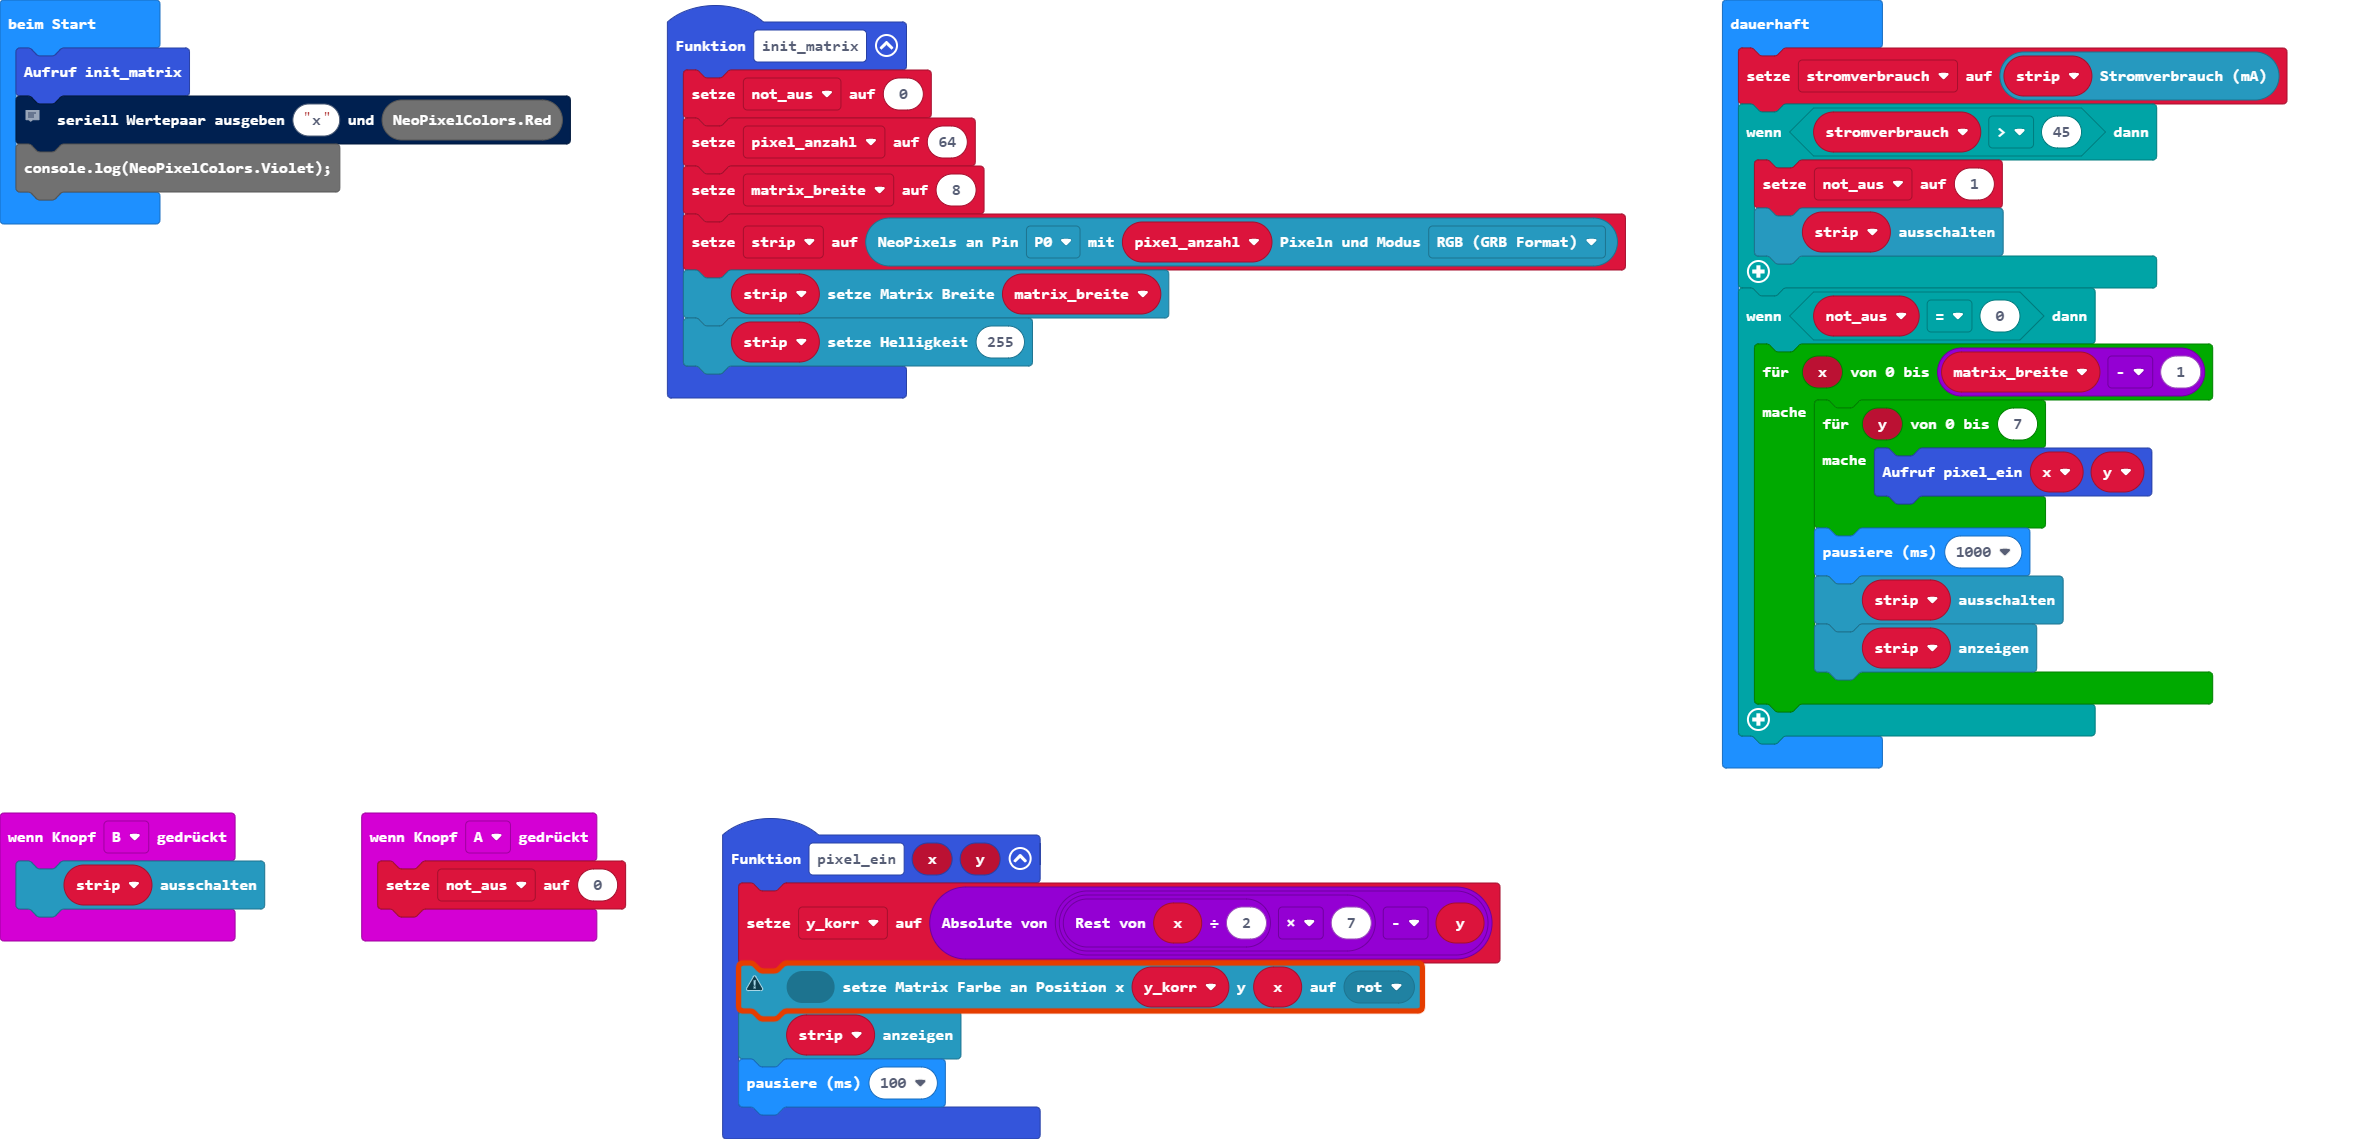
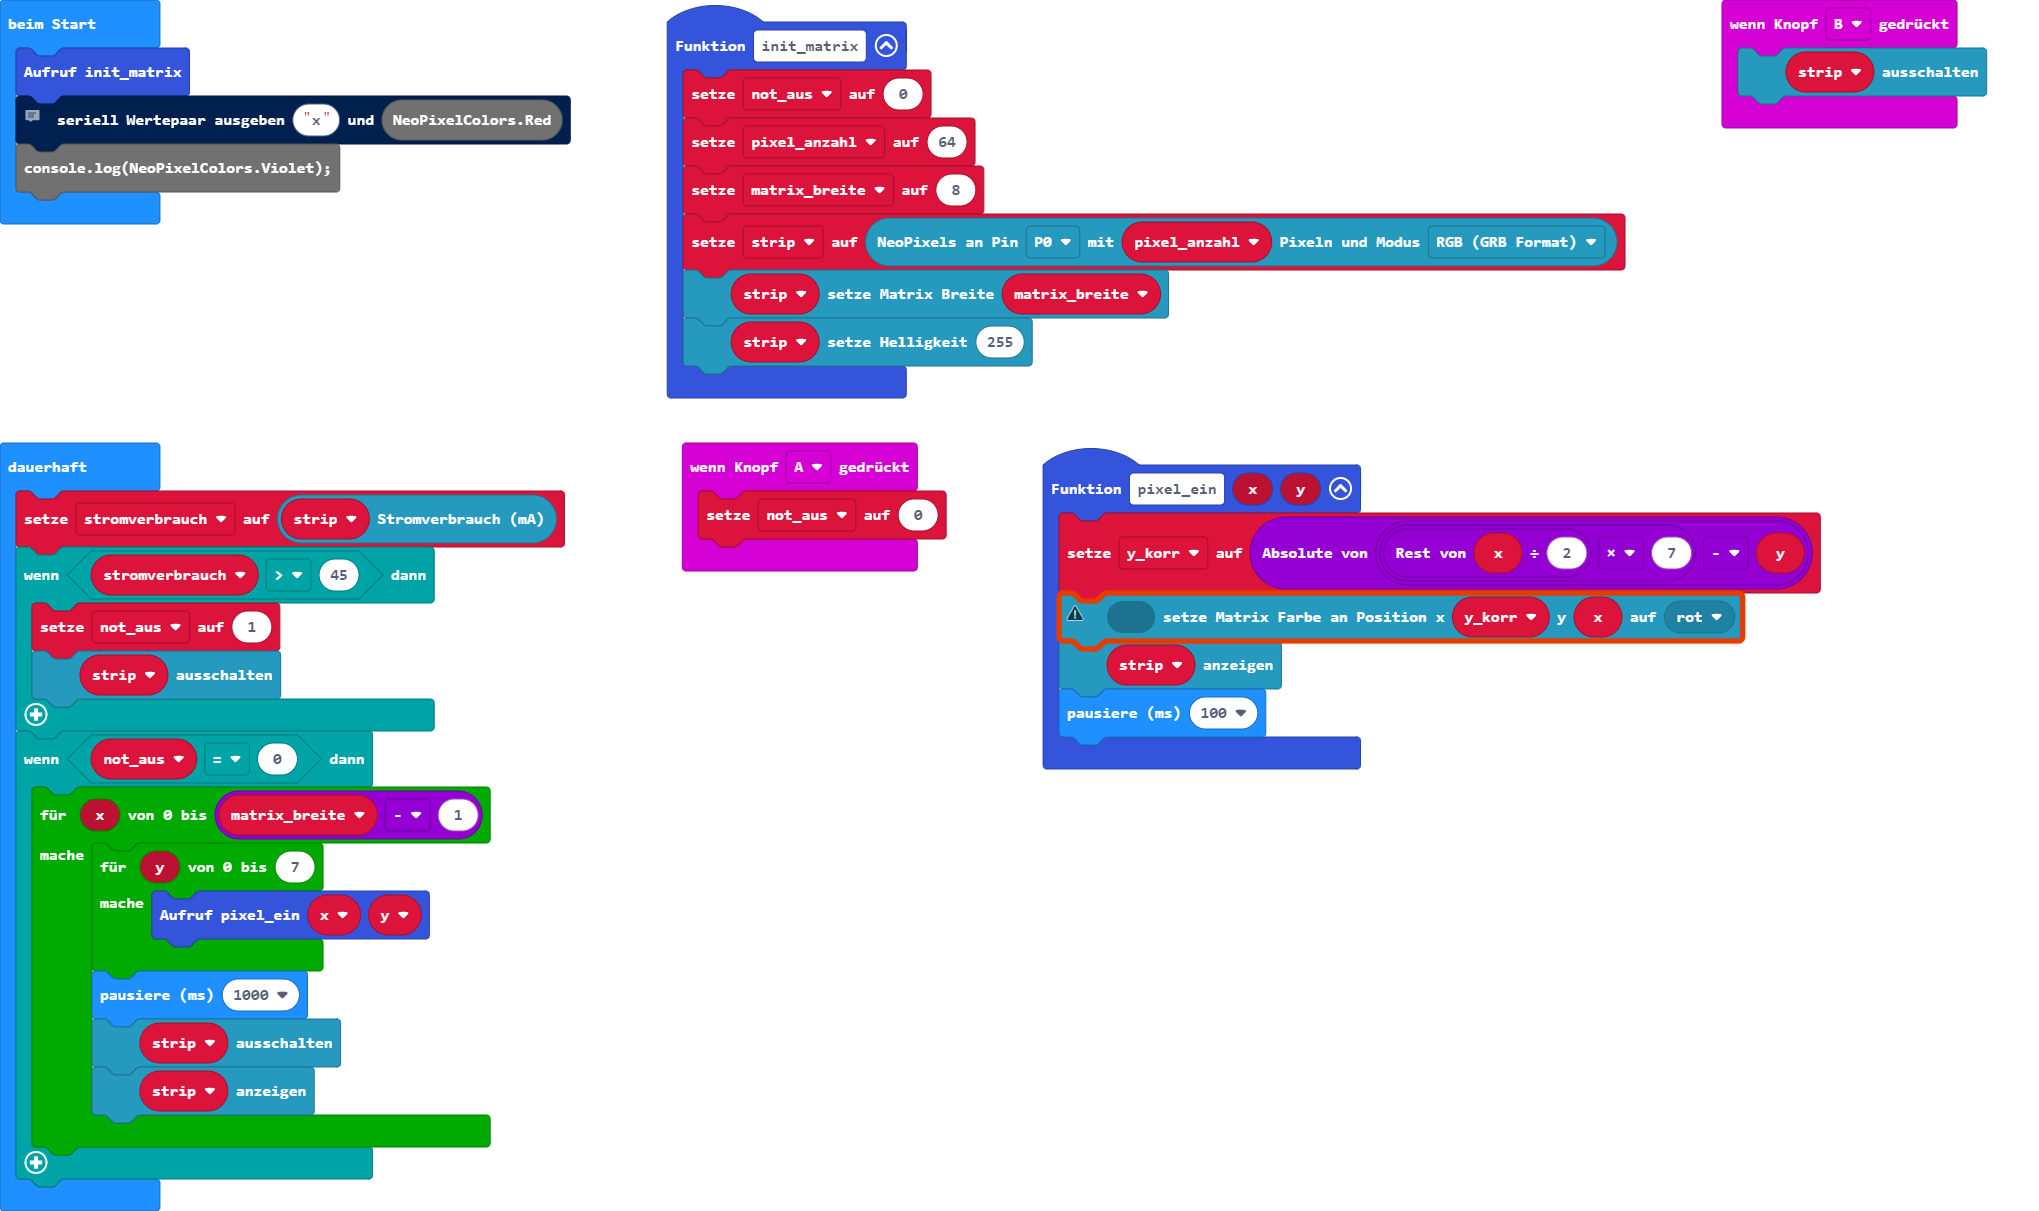
Aktualisiere pxt.json, main.blocks, main.ts, _locales/de/README.md

diff --git a/main.ts b/main.ts
@@ -4,17 +4,21 @@ function init_matrix () {
     matrix_breite = 8
     strip = neopixel.create(DigitalPin.P0, pixel_anzahl, NeoPixelMode.RGB)
     strip.setMatrixWidth(matrix_breite)
-    strip.setBrightness(255)
+    strip.setBrightness(50)
 }
 input.onButtonPressed(Button.A, function () {
     not_aus = 0
 })
+
+
 function pixel_ein (x: number, y: number) {
     y_korr = Math.abs(x % 2 * 7 - y)
-    strip.setMatrixColor(y_korr, x, neopixel.colors(NeoPixelColors.Red))
+    strip.setMatrixColor(y_korr, x, neopixel.colors(NeoPixelColors.Green))
     strip.show()
     basic.pause(100)
 }
+
+
 input.onButtonPressed(Button.B, function () {
     strip.clear()
 })
@@ -35,13 +39,14 @@ basic.forever(function () {
         strip.clear()
     }
     if (not_aus == 0) {
-        for (let x = 0; x <= matrix_breite - 1; x++) {
-            for (let y = 0; y <= 7; y++) {
+        for (let y = 0; y <= 7; y++) {
+            for (let x = 0; x <= matrix_breite - 1; x++) {
                 pixel_ein(x, y)
             }
-            basic.pause(1000)
-            strip.clear()
-            strip.show()
         }
+        basic.pause(10000)
+        strip.clear()
+        strip.show()
+        
     }
 })

diff --git a/_locales/de/README.md b/_locales/de/README.md
@@ -1,0 +1,31 @@
+
+> Diese Seite bei [https://baa-mb.github.io/neopixel_start03/](https://baa-mb.github.io/neopixel_start03/) öffnen
+
+## Als Erweiterung verwenden
+
+Dieses Repository kann als **Erweiterung** in MakeCode hinzugefügt werden.
+
+* öffne [https://makecode.microbit.org/](https://makecode.microbit.org/)
+* klicke auf **Neues Projekt**
+* klicke auf **Erweiterungen** unter dem Zahnrad-Menü
+* nach **https://github.com/baa-mb/neopixel_start03** suchen und importieren
+
+## Dieses Projekt bearbeiten ![Build Status Abzeichen](https://github.com/baa-mb/neopixel_start03/workflows/MakeCode/badge.svg)
+
+Um dieses Repository in MakeCode zu bearbeiten.
+
+* öffne [https://makecode.microbit.org/](https://makecode.microbit.org/)
+* klicke auf **Importieren** und dann auf **Importiere URL**
+* füge **https://github.com/baa-mb/neopixel_start03** ein und klicke auf Importieren
+
+## Blockvorschau
+
+Dieses Bild zeigt den Blockcode vom letzten Commit im Master an.
+Die Aktualisierung dieses Bildes kann einige Minuten dauern.
+
+![Eine gerenderte Ansicht der Blöcke](https://github.com/baa-mb/neopixel_start03/raw/master/.github/makecode/blocks.png)
+
+#### Metadaten (verwendet für Suche, Rendering)
+
+* for PXT/microbit
+<script src="https://makecode.com/gh-pages-embed.js"></script><script>makeCodeRender("{{ site.makecode.home_url }}", "{{ site.github.owner_name }}/{{ site.github.repository_name }}");</script>
